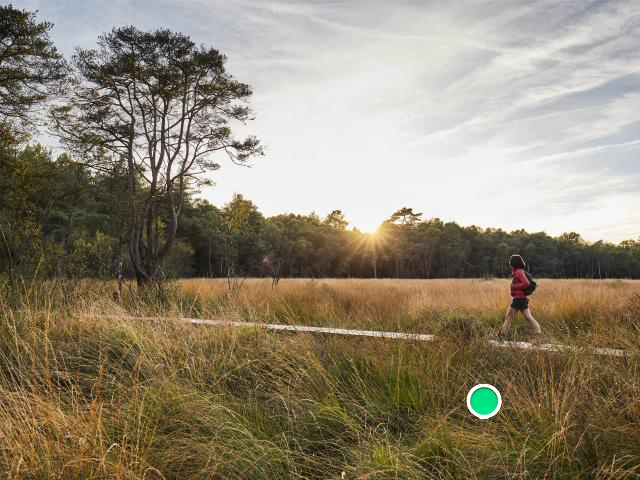
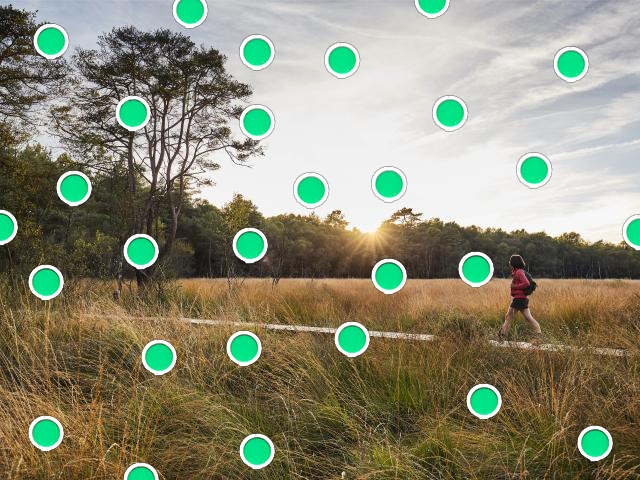
Almost finished green_nn

diff --git a/nn-training/green_nn.py b/nn-training/green_nn.py
@@ -5,8 +5,8 @@ from PIL import Image
 
 # Configuration
 learning_rate = 0.00001
-epoch_amount = 1
-batch_size = 48
+epoch_amount = 5
+batch_size = 100
 
 # Select GPU for more performance (when cuda is available)
 if (torch.cuda.is_available()):
@@ -21,16 +21,48 @@ class CustomDataset(torch.utils.data.Dataset):
     
     def __init__(self):
         super().__init__()
-        image = Image.open("./images/green/1_green.jpg")
-        self.x = torch.from_numpy(numpy.array(image.getdata(), dtype=numpy.float32))
-        label = Image.open("./images/green/labels/1_green_labeled.jpg")
-        pixels = list(label.getdata())
-        self.y = []
-        for pixel in pixels:
-            if (pixel[0] > 0):
-                self.y.append([1])
+
+        self.image_pixels = None
+        self.label_pixels = None
+      
+        self.image_locations = [
+            "./images/green/1_green.jpg",
+            "./images/green/2_green.jpg"
+        ]
+
+        self.label_locations = [
+            "./images/green/1_green_labeled.jpg",
+            "./images/green/2_green_labeled.jpg"
+        ]
+
+        # Load input images
+        for image_location in self.image_locations:
+            image = Image.open(image_location)
+            image_data = numpy.array(image.getdata(), dtype=numpy.float32)
+            if self.image_pixels is None:
+                self.image_pixels = image_data
             else:
-                self.y.append([0])
+                self.image_pixels = numpy.concatenate((self.image_pixels, image_data))
+
+        # Load labels for images
+        for label_location in self.label_locations:
+            label = Image.open(label_location)
+            label_data = numpy.array(label.getdata(), dtype=numpy.float32)
+            if self.label_pixels is None:
+                self.label_pixels = label_data
+            else:
+                self.label_pixels = numpy.concatenate((self.label_pixels, label_data))
+
+        # Convert image pixel array to tensor
+        self.x = torch.from_numpy(numpy.array(self.image_pixels, dtype=numpy.float32))
+
+        # Convert labels to a 1 or 0 (white and black respectively)
+        self.y = []
+        for pixel in self.label_pixels:
+            if (pixel[0] > 0):
+                self.y.append([1.0-(1e-7)])
+            else:
+                self.y.append([0.0+(1e-7)])
         self.y = torch.from_numpy(numpy.array(self.y, dtype=numpy.float32))
 
     def __getitem__(self, index):
@@ -40,8 +72,8 @@ class CustomDataset(torch.utils.data.Dataset):
         return len(self.x)
 
 dataset = CustomDataset()
-dataloader = torch.utils.data.DataLoader(dataset, batch_size=batch_size, shuffle=True, num_workers=12)
 
+dataloader = torch.utils.data.DataLoader(dataset, batch_size=batch_size, shuffle=True, num_workers=12)
 
 # Create model
 class CustomNetwork(torch.nn.Module):
@@ -49,26 +81,28 @@ class CustomNetwork(torch.nn.Module):
     def __init__(self):
         super().__init__()
         self.first_hidden = torch.nn.Linear(3, 3)
-        self.relu = torch.nn.ReLU()
         self.second_hidden = torch.nn.Linear(3, 1)
+        self.sigmoid = torch.nn.Sigmoid()
         
     def forward(self, x):
         # Pass the input tensor through each of our operations
         x = self.first_hidden(x)
-        x = self.relu(x)
         x = self.second_hidden(x)
+        x = self.sigmoid(x)
         return x
 
 model = CustomNetwork().to(device)
 
 # Train network
 iteration_count = len(dataset) / batch_size
-loss = torch.nn.MSELoss()
+loss = torch.nn.BCELoss()
 optimizer = torch.optim.SGD(model.parameters(), lr=learning_rate)
 
 for epoch in range(epoch_amount):
     for i, (inputs, labels) in enumerate(dataloader):
 
+        # Reset gradients
+        optimizer.zero_grad()
         # Forward pass
         prediction = model(inputs.to(device))
         # Determine loss
@@ -77,11 +111,10 @@ for epoch in range(epoch_amount):
         l.backward()
         # Update weight
         optimizer.step()
-        # Reset gradients
-        optimizer.zero_grad()
-        
-        if (i + 1) % batch_size == 0:
-            print(f"epoch = {epoch}/{epoch_amount}, step = {i+1}/{iteration_count}, loss = {l:.5f}")
+
+        with torch.no_grad():
+            if (i + 1) % batch_size == 0:
+                print(f"epoch = {epoch+1}/{epoch_amount}, step = {i+1}/{iteration_count:.0f}, avg. loss = {l/batch_size:.5f}")
 
 # Test model
 with torch.no_grad():
@@ -90,5 +123,3 @@ with torch.no_grad():
     print(f"Prediction after training: f([0, 255, 0]) = {model(torch.tensor([0, 255, 0], dtype = torch.float32, device=device)).item():.5f}")
     print(f"Prediction after training: f([0, 0, 255]) = {model(torch.tensor([0, 0, 255], dtype = torch.float32, device=device)).item():.5f}")
     print(f"Prediction after training: f([0, 227, 137]) = {model(torch.tensor([0, 227, 137], dtype = torch.float32, device=device)).item():.5f}")
-    w, b = model.first_hidden.parameters()
-    print(w)
